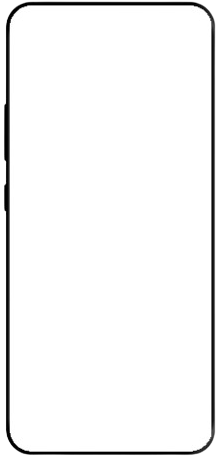
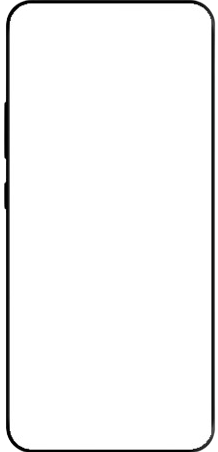
Ui /All Page And Diffrenet Custom page model

Changed region(s): [[0.0275, 0.9292, 0.9908, 1.0], [0.0275, 0.0, 0.9633, 0.0619], [0.9633, 0.031, 0.9908, 0.0619]]

diff --git a/src/app/specific/[id]/page.tsx b/src/app/specific/[id]/page.tsx
@@ -5,7 +5,6 @@ import Navbar from "../../../components/navbar/Navbar";
 import { DropdownButton } from "@/components/ui/dropdown-button-upward";
 import { QuantitySelector } from "@/components/ui/quantity-selector";
 import { ToastContainer, toast } from 'react-toastify';
-import 'react-toastify/dist/ReactToastify.css';
 import Footer from "@/components/homecomponents/Footer";
 import config from '@/config';
 import localFont from "next/font/local";
@@ -899,15 +898,18 @@ const ProductDetails = () => {
         theme="dark"
       />
 
-      <main className="flex-1">
-      <div className="overflow-hidden max-w-6xl mx-auto mt-25 px-6 py-12">
+      <main className="mx-auto flex-1 w-full">
 
-        <div className="flex flex-col items-center lg:items-start lg:flex-row gap-10">
+
+
+      <div className="overflow-hidden w-full mx-auto mt-25 py-12 pb-0 ">
+
+        <div className="flex flex-col items-center lg:items-start lg:flex-row gap-10 sm:h-[90vh]">
   {/* Image Section with Carousel */}
-  <div className="w-full lg:w-1/2 p-6 rounded-md flex flex-col gap-4">
+  <div className="w-full min-[480px]:w-[80%] sm:max-w-[45%]  sm:min-w-[45%] min-[768px]:min-h-[85vh] sm:max-h-[85vh] p-6 rounded-md flex flex-col gap-4  ">
     {/* Main Image Display */}
     <div 
-      className="relative h-[390px] rounded-xl overflow-hidden group"
+      className="relative  rounded-xl overflow-hidden group  "
       onTouchStart={handleTouchStart}
       onTouchMove={handleTouchMove}
       onTouchEnd={handleTouchEnd}
@@ -915,7 +917,7 @@ const ProductDetails = () => {
       <img
         src={productImages[currentImageIndex] || Img.src}
         alt={`${product.name} - Image ${currentImageIndex + 1}`}
-        className="w-full h-full object-contain transition-opacity duration-300"
+        className="w-full h-full object-contain sm:[object-fit:unset] transition-opacity duration-300"
       />
       
       {/* Navigation Arrows (only show if multiple images) */}
@@ -951,28 +953,7 @@ const ProductDetails = () => {
       )}
     </div>
 
-    {/* Thumbnail Navigation (only show if multiple images) */}
-    {productImages.length > 1 && (
-      <div className="flex gap-2 overflow-x-auto pb-2">
-        {productImages.map((img, index) => (
-          <button
-            key={index}
-            onClick={() => handleThumbnailClick(index)}
-            className={`flex-shrink-0 w-16 h-16 rounded-lg overflow-hidden border-2 transition-all ${
-              currentImageIndex === index
-                ? 'border-lime-400 scale-105'
-                : 'border-gray-600 hover:border-gray-400'
-            }`}
-          >
-            <img
-              src={img}
-              alt={`Thumbnail ${index + 1}`}
-              className="w-full h-full object-cover"
-            />
-          </button>
-        ))}
-      </div>
-    )}
+    
   </div>
 
 
@@ -1064,6 +1045,32 @@ const ProductDetails = () => {
                   </div>
                 )}
               </div>
+
+              
+
+{productImages.length > 1 && (
+      <div className="flex gap-2 overflow-x-auto pb-2">
+        {productImages.map((img, index) => (
+          <button
+            key={index}
+            onClick={() => handleThumbnailClick(index)}
+            className={`flex-shrink-0 w-16 h-16 rounded-lg overflow-hidden border-2 transition-all ${
+              currentImageIndex === index
+                ? 'border-lime-400 scale-105'
+                : 'border-gray-600 hover:border-gray-400'
+            }`}
+          >
+            <img
+              src={img}
+              alt={`Thumbnail ${index + 1}`}
+              className="w-full h-full object-cover"
+            />
+          </button>
+        ))}
+      </div>
+    )}
+
+
 
               {/* Buttons */}
               <div className="flex flex-col sm:flex-row gap-2 sm:gap-4">
@@ -1170,8 +1177,8 @@ const ProductDetails = () => {
         </div>
       </div>
 
-      <div className="overflow-hidden flex justify-center max-w-full xl:ml-40 mx-auto px-6 mb-0">
-        <div className="mt-16 mb-0">
+      <div className="overflow-hidden flex justify-start max-w-full mx-auto px-6 mb-0">
+        <div className="mt-16 mb-10 ">
           <h2 className="text-2xl font-bold mb-6 text-white">
             Related Products
           </h2>

diff --git a/src/app/custom-designer/page.jsx b/src/app/custom-designer/page.jsx
@@ -4,8 +4,8 @@ import Image from "next/image";
 import Navbar from "@/components/navbar/Navbar";
 import Footer from "@/components/homecomponents/Footer";
 import { QuantitySelector } from "@/components/ui/quantity-selector";
-import IMG from '../../../public/images/phone.png'
-import CAMERA from '../../../public/images/camera.png'
+import IMG from '../../../public/images/models/image1_boundary.png'
+import CAMERA from '../../../public/images/models/image2_components.png'
 import html2canvas from 'html2canvas';
 import {
   Upload,
@@ -672,20 +672,18 @@ export default function CustomDesignerPage() {
             </div>
 
             {/* Phone Preview Container */}
-            <div className="relative flex items-center justify-center min-h-[600px] overflow-visible">
+            <div className="relative flex items-center justify-center min-h-[600px]  overflow-visible">
               <div
                 id="phone-preview"
-                className="relative w-[320px] h-[650px] rounded-[50px] shadow-2xl"
-                style={{ 
-                  boxShadow: "0 0 60px rgba(0, 0, 0, 0.5)" 
-                }}
+                className="relative w-[290px] h-[620px] rounded-[30px] "
+                
               >
                 {/* Phone Frame Background Image - z-index: 1 */}
                 <img
                   src={IMG.src}
                   alt="Phone Frame"
-                  className="absolute inset-0 w-full h-full object-cover rounded-[50px] pointer-events-none"
-                  style={{ zIndex: 1 }}
+                  className="absolute inset-0 w-full h-full object-cover rounded-[30px] pr-1 pointer-events-none"
+                  style={{zIndex: 1 }}
                 />
 
                 
@@ -693,9 +691,9 @@ export default function CustomDesignerPage() {
                 
 
                 {/* Design Area - User uploaded image - z-index: 10 */}
-                <div
-                  className="absolute inset-0 overflow-hidden cursor-move rounded-[50px]"
-                  style={{ margin: '5px', zIndex: 10 }}
+                <div 
+                  className="absolute inset-0 overflow-hidden cursor-move rounded-[30px] border-5"
+                  style={{  zIndex: 10 }}
                   onMouseDown={handleDragStart}
                 >
                   {uploadedImage ? (
@@ -717,7 +715,7 @@ export default function CustomDesignerPage() {
                 </div>
 
                 {/* Camera Module - Top layer - z-index: 50 */}
-                <div className="absolute top-6 left-6 w-[154px] h-[160px] pointer-events-none rounded-[35px] overflow-hidden  " 
+                <div className="absolute top-6 left-8 w-[140px] h-[160px] pointer-events-none rounded-[35px] overflow-hidden  " 
                      style={{ zIndex: 20 }}>
                   <img
                     src={CAMERA.src}
